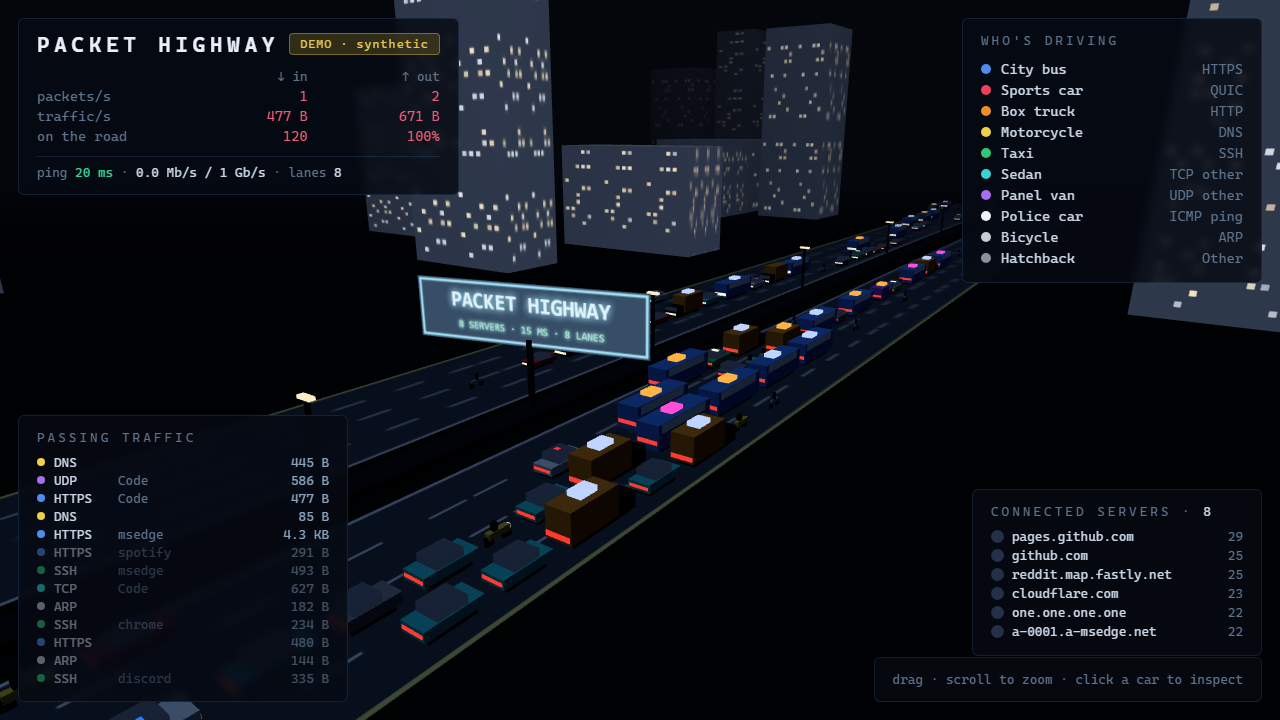
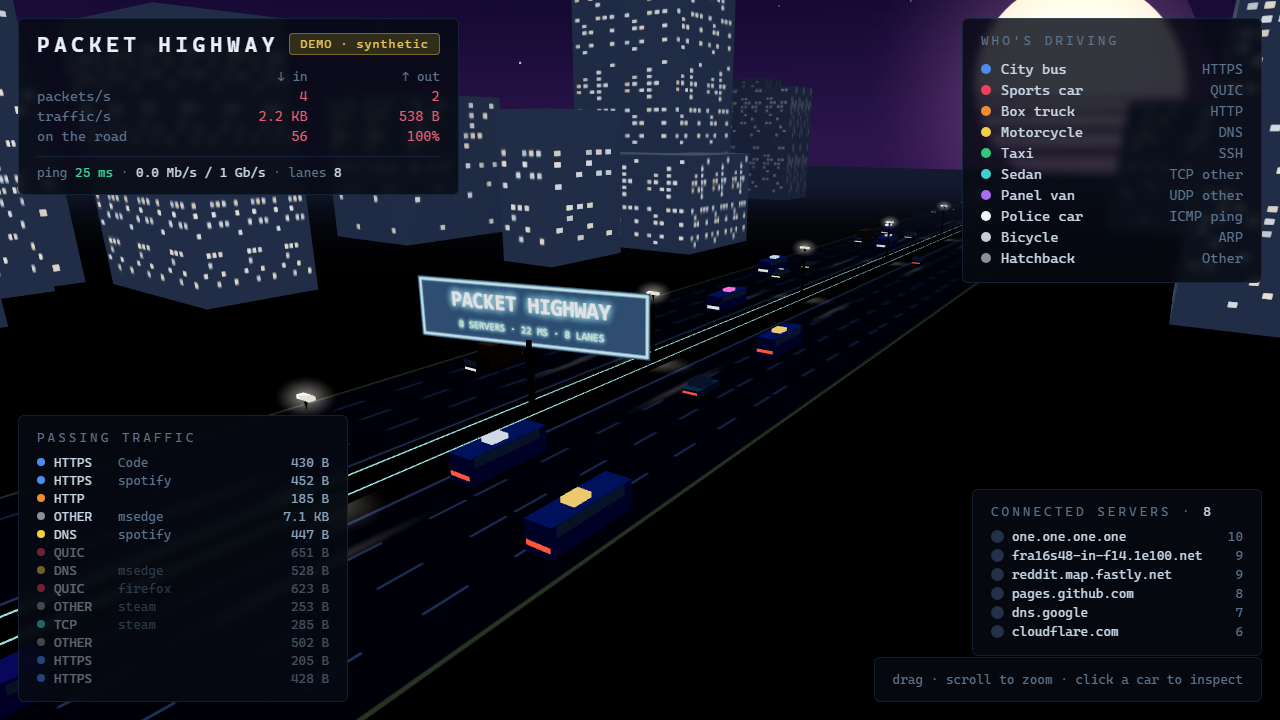
Retro-future sky + refreshed README screenshot
ACES filmic tone mapping, indigo sky dome with star layers, synthwave
sun sprite; screenshot regenerated from the static demo.

diff --git a/web/app.js b/web/app.js
@@ -39,12 +39,15 @@
   var renderer = new THREE.WebGLRenderer({ canvas: canvas, antialias: !ECO && !WALLPAPER, powerPreference: ECO ? 'low-power' : 'default' });
   renderer.setPixelRatio(PIXEL_RATIO);
   renderer.setSize(window.innerWidth, window.innerHeight);
+  // filmic grade — the whole retro-future look keys off this
+  renderer.toneMapping = THREE.ACESFilmicToneMapping;
+  renderer.toneMappingExposure = 1.15;
 
   var scene = new THREE.Scene();
-  scene.background = new THREE.Color(0x04060c);
-  scene.fog = new THREE.Fog(0x04060c, 130, 430);
+  scene.background = new THREE.Color(0x131a30);
+  scene.fog = new THREE.Fog(0x131a30, 130, 430);
 
-  var camera = new THREE.PerspectiveCamera(52, window.innerWidth / window.innerHeight, 0.5, 800);
+  var camera = new THREE.PerspectiveCamera(52, window.innerWidth / window.innerHeight, 0.5, 1200);
   var camTarget = new THREE.Vector3(-2, 0, -50);
   var camYaw = 0.62, camPitch = 0.30, camDist = 95;
   function applyCamera() {
@@ -56,10 +59,77 @@
   }
   applyCamera();
 
-  scene.add(new THREE.HemisphereLight(0x33415e, 0x05070d, 0.9));
-  var dl = new THREE.DirectionalLight(0x8fb0e0, 0.55);
-  dl.position.set(-40, 80, 30);
+  scene.add(new THREE.HemisphereLight(0x3a4a78, 0x1a1238, 1.1)); // indigo sky, violet bounce
+  var dl = new THREE.DirectionalLight(0x9db8e8, 0.7);
+  dl.position.set(-130, 90, -260);
   scene.add(dl);
+
+  // --------------------------------------------------- sky (retro-future)
+  var starsMat, starsMat2, sunY = 70;
+  (function sky() {
+    // vertex-colored dome: indigo zenith -> violet horizon with an ember band
+    var geo = new THREE.SphereGeometry(900, 16, 12);
+    var pos = geo.attributes.position, cols = [];
+    var top = new THREE.Color(0x05060f), mid = new THREE.Color(0x1a1238), hor = new THREE.Color(0x3a2450);
+    for (var i = 0; i < pos.count; i++) {
+      var t = Math.max(0, Math.min(1, pos.getY(i) / 900));
+      var c2 = t < 0.18 ? hor.clone().lerp(mid, t / 0.18) : mid.clone().lerp(top, (t - 0.18) / 0.82);
+      cols.push(c2.r, c2.g, c2.b);
+    }
+    geo.setAttribute('color', new THREE.Float32BufferAttribute(cols, 3));
+    scene.add(new THREE.Mesh(geo, new THREE.MeshBasicMaterial({ vertexColors: true, side: THREE.BackSide, fog: false })));
+
+    // two star layers, twinkled in the loop by whole-material opacity
+    function starLayer(count, size, opacity) {
+      var sp = [];
+      for (var s = 0; s < count; s++) {
+        var az = Math.random() * Math.PI * 2, el2 = 0.08 + Math.random() * 1.4;
+        sp.push(850 * Math.cos(el2) * Math.sin(az), 850 * Math.sin(el2), 850 * Math.cos(el2) * Math.cos(az) * -1);
+      }
+      var g2 = new THREE.BufferGeometry();
+      g2.setAttribute('position', new THREE.Float32BufferAttribute(sp, 3));
+      var m2 = new THREE.PointsMaterial({ color: 0xbfd0ff, size: size, sizeAttenuation: false, transparent: true, opacity: opacity, fog: false });
+      scene.add(new THREE.Points(g2, m2));
+      return m2;
+    }
+    starsMat = starLayer(260, 2.2, 0.8);
+    starsMat2 = starLayer(180, 1.4, 0.5);
+
+    // the synthwave sun: striped gradient disc low on the horizon
+    var c = document.createElement('canvas'); c.width = 256; c.height = 256;
+    var g3 = c.getContext('2d');
+    var grad = g3.createLinearGradient(0, 20, 0, 236);
+    grad.addColorStop(0, '#ffb04a'); grad.addColorStop(0.55, '#ff5e8a'); grad.addColorStop(1, '#c026c9');
+    g3.fillStyle = grad;
+    g3.beginPath(); g3.arc(128, 128, 108, 0, Math.PI * 2); g3.fill();
+    g3.globalCompositeOperation = 'destination-out';
+    for (var st = 0; st < 7; st++) { // widening scanline gaps toward the bottom
+      var sy = 128 + 14 + st * (10 + st * 2.4);
+      g3.fillRect(0, sy, 256, 3 + st * 1.7);
+    }
+    var sunTex = new THREE.CanvasTexture(c);
+    var sun = new THREE.Sprite(new THREE.SpriteMaterial({ map: sunTex, transparent: true, fog: false, depthWrite: false }));
+    sun.scale.set(230, 230, 1);
+    sun.position.set(-40, sunY, -800);
+    scene.add(sun);
+    var halo = new THREE.Sprite(new THREE.SpriteMaterial({
+      map: radialTex('rgba(255,94,138,0.5)'), transparent: true, fog: false,
+      blending: THREE.AdditiveBlending, depthWrite: false, opacity: 0.7
+    }));
+    halo.scale.set(420, 420, 1);
+    halo.position.copy(sun.position);
+    scene.add(halo);
+  })();
+
+  // shared helper: radial gradient texture (glow sprites, light pools)
+  function radialTex(rgba) {
+    var c = document.createElement('canvas'); c.width = 128; c.height = 128;
+    var g = c.getContext('2d');
+    var grad = g.createRadialGradient(64, 64, 4, 64, 64, 62);
+    grad.addColorStop(0, rgba); grad.addColorStop(1, 'rgba(0,0,0,0)');
+    g.fillStyle = grad; g.fillRect(0, 0, 128, 128);
+    return new THREE.CanvasTexture(c);
+  }
 
   // ------------------------------------------------------------ world
   var ROAD_LEN = 480, Z0 = -ROAD_LEN / 2 - 60, Z1 = ROAD_LEN / 2 - 60; // road spans z in [Z0, Z1]
@@ -74,11 +144,11 @@
   function roadTexture(n) {
     var c = document.createElement('canvas'); c.width = 256; c.height = 256;
     var g = c.getContext('2d');
-    g.fillStyle = '#0b0e15'; g.fillRect(0, 0, 256, 256);
+    g.fillStyle = '#06080d'; g.fillRect(0, 0, 256, 256); // wet-asphalt dark base
     g.fillStyle = 'rgba(255,255,255,0.02)';
     for (var i = 0; i < 300; i++) g.fillRect(Math.random() * 256, Math.random() * 256, 2, 2);
     var lw = 256 / n; // n lanes => n-1 dashed separators + solid edges
-    g.strokeStyle = '#c9cdd6'; g.lineWidth = 3; g.setLineDash([26, 30]);
+    g.strokeStyle = '#aeb6c2'; g.lineWidth = 3; g.setLineDash([26, 30]);
     for (var l = 1; l < n; l++) {
       g.beginPath(); g.moveTo(lw * l, 0); g.lineTo(lw * l, 256); g.stroke();
     }
@@ -164,16 +234,60 @@
   var median = new THREE.Mesh(new THREE.BoxGeometry(3.2, 0.7, ROAD_LEN),
     new THREE.MeshLambertMaterial({ color: 0x141926 }));
   median.position.set(0, 0.35, (Z0 + Z1) / 2); scene.add(median);
+  // neon edge strips on the median (TRON accent, unlit = glows under ACES)
+  var neonMat = new THREE.MeshBasicMaterial({ color: 0x2ee6e0 });
+  [-1.52, 1.52].forEach(function (nx) {
+    var strip = new THREE.Mesh(new THREE.BoxGeometry(0.14, 0.1, ROAD_LEN), neonMat);
+    strip.position.set(nx, 0.72, (Z0 + Z1) / 2); scene.add(strip);
+  });
 
-  // street lights along the median
+  // street lights along the median + static glow package (pools, halos, wet streaks)
   var poleMat = new THREE.MeshLambertMaterial({ color: 0x1a2030 });
   var bulbMat = new THREE.MeshBasicMaterial({ color: 0xf8edc8 });
-  for (var z = Z0 + 20; z < Z1; z += 46) {
-    var pole = new THREE.Mesh(new THREE.BoxGeometry(0.35, 9, 0.35), poleMat);
-    pole.position.set(0, 4.5, z); scene.add(pole);
-    var bulb = new THREE.Mesh(new THREE.BoxGeometry(1.6, 0.3, 0.6), bulbMat);
-    bulb.position.set(0, 9, z); scene.add(bulb);
-  }
+  var bulbWarm = new THREE.Color(0xf8edc8), bulbCool = new THREE.Color(0xcfe8ff);
+  (function streetlights() {
+    var lampZ = [];
+    for (var z = Z0 + 20; z < Z1; z += 46) lampZ.push(z);
+    lampZ.forEach(function (z) {
+      var pole = new THREE.Mesh(new THREE.BoxGeometry(0.35, 9, 0.35), poleMat);
+      pole.position.set(0, 4.5, z); scene.add(pole);
+      var bulb = new THREE.Mesh(new THREE.BoxGeometry(1.6, 0.3, 0.6), bulbMat);
+      bulb.position.set(0, 9, z); scene.add(bulb);
+    });
+
+    // one instanced mesh per effect: all lamps cost 1 draw call each
+    var poolGeo = new THREE.PlaneGeometry(13, 9); poolGeo.rotateX(-Math.PI / 2);
+    var poolMat = new THREE.MeshBasicMaterial({
+      map: radialTex('rgba(255,236,190,0.4)'), transparent: true,
+      blending: THREE.AdditiveBlending, depthWrite: false, fog: false
+    });
+    var pools = new THREE.InstancedMesh(poolGeo, poolMat, lampZ.length);
+    var streakGeo = new THREE.PlaneGeometry(2.0, 24); streakGeo.rotateX(-Math.PI / 2);
+    var streakMat = new THREE.MeshBasicMaterial({
+      map: radialTex('rgba(255,220,170,0.22)'), transparent: true,
+      blending: THREE.AdditiveBlending, depthWrite: false, fog: false
+    });
+    var streaks = new THREE.InstancedMesh(streakGeo, streakMat, lampZ.length * 2);
+    var m4 = new THREE.Matrix4();
+    lampZ.forEach(function (z, i) {
+      m4.setPosition(0, 0.025, z); pools.setMatrixAt(i, m4);
+      m4.setPosition(-8, 0.02, z + 6); streaks.setMatrixAt(i * 2, m4);
+      m4.setPosition(8, 0.02, z + 6); streaks.setMatrixAt(i * 2 + 1, m4);
+    });
+    pools.renderOrder = 2; streaks.renderOrder = 2;
+    scene.add(pools); scene.add(streaks);
+
+    // bulb halo sprites
+    var haloMat = new THREE.SpriteMaterial({
+      map: radialTex('rgba(255,240,200,0.55)'), transparent: true,
+      blending: THREE.AdditiveBlending, depthWrite: false
+    });
+    lampZ.forEach(function (z) {
+      var s = new THREE.Sprite(haloMat);
+      s.scale.set(5, 3.4, 1); s.position.set(0, 9, z);
+      scene.add(s);
+    });
+  })();
 
   // buildings with lit windows
   function buildingTexture() {
@@ -208,6 +322,34 @@
     bld.position.set(bx, h / 2 - 0.1, bz);
     scene.add(bld);
   }
+
+  // distant parallax skyline silhouettes (camera drift sells the depth)
+  (function skyline() {
+    function layer(wpx, hpx, tint, w3, h3, z3) {
+      var c = document.createElement('canvas'); c.width = wpx; c.height = hpx;
+      var g = c.getContext('2d');
+      g.fillStyle = tint;
+      var x = 0;
+      while (x < wpx) {
+        var bw = 30 + Math.random() * 70, bh = hpx * (0.35 + Math.random() * 0.6);
+        g.fillRect(x, hpx - bh, bw, bh);
+        x += bw + 6 + Math.random() * 18;
+      }
+      g.fillStyle = 'rgba(255,225,170,0.5)';
+      for (var d = 0; d < wpx * hpx / 900; d++) {
+        var dx = Math.random() * wpx, dy = hpx * 0.3 + Math.random() * hpx * 0.65;
+        if (g.getImageData(dx, dy, 1, 1).data[3] > 0) g.fillRect(dx, dy, 1.5, 1.5);
+      }
+      var tex = new THREE.CanvasTexture(c);
+      var m = new THREE.Mesh(new THREE.PlaneGeometry(w3, h3),
+        new THREE.MeshBasicMaterial({ map: tex, transparent: true, fog: false }));
+      m.position.set(0, h3 / 2 - 2, z3);
+      scene.add(m);
+    }
+    layer(1024, 200, '#232b47', 900, 130, -350);
+    layer(1024, 220, '#1a2038', 1000, 165, -430);
+    layer(1024, 240, '#12182c', 1150, 200, -510);
+  })();
 
   // "PACKET HIGHWAY" sign over the median — subtitle updates with live stats
   var signCtx, signTex;
